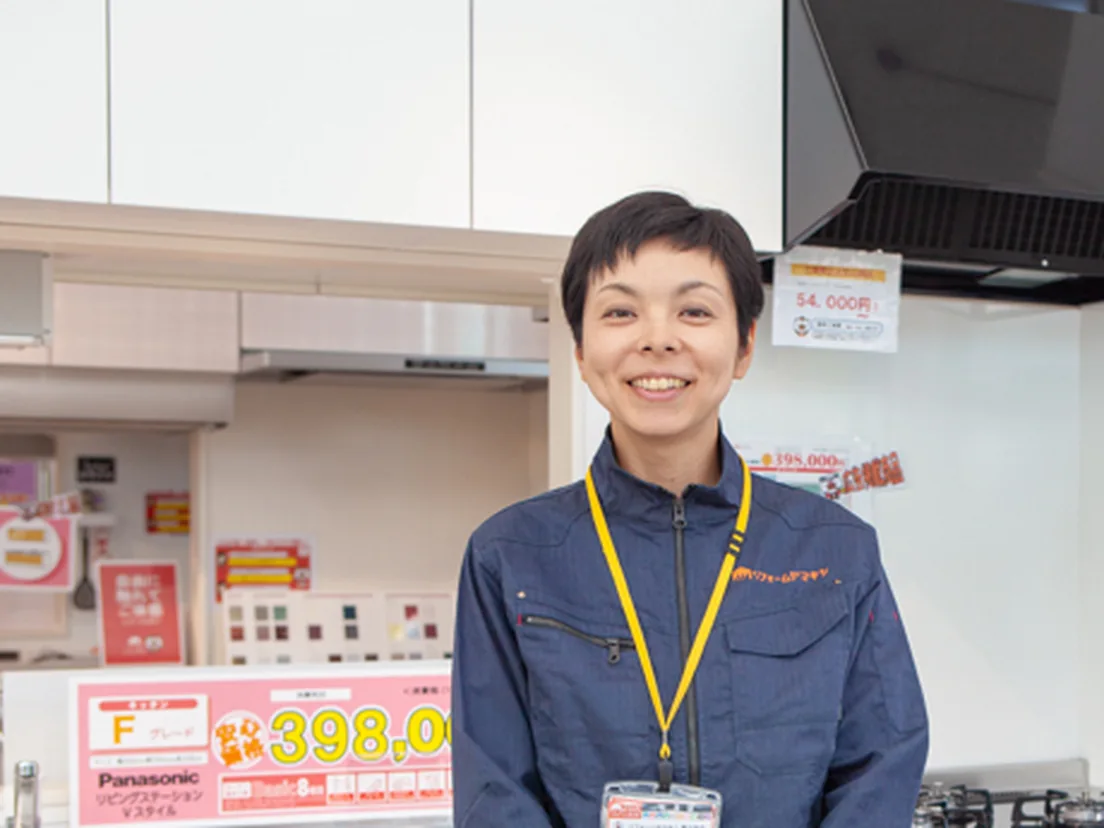
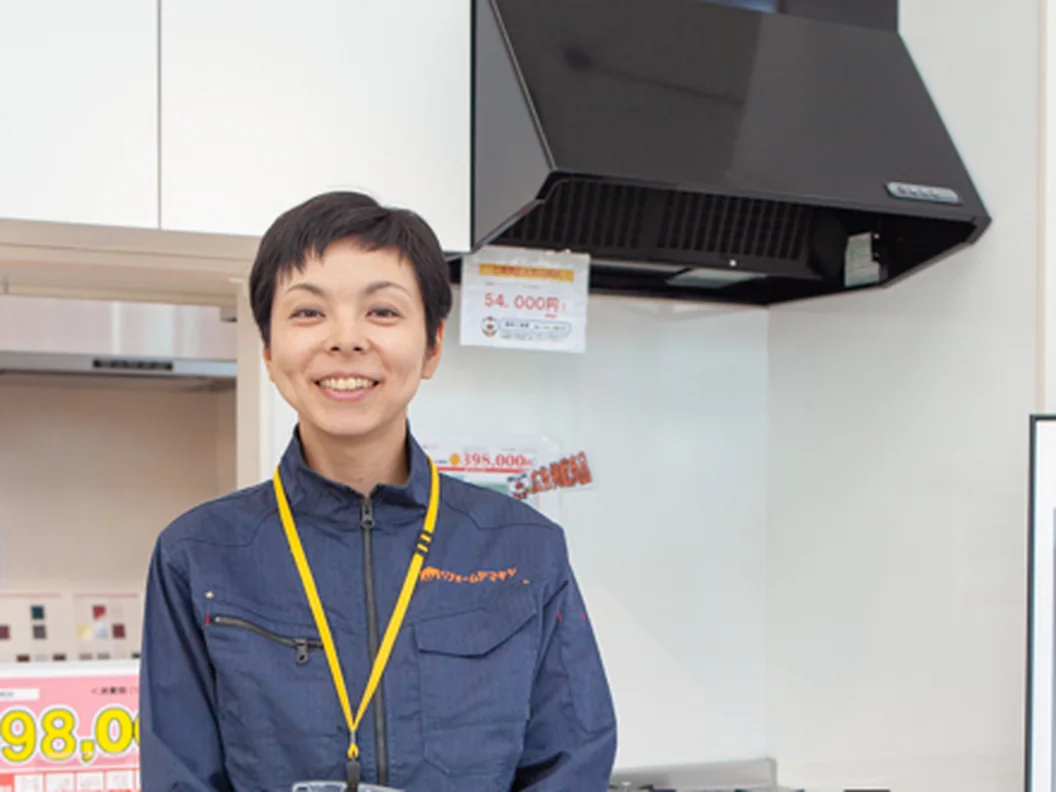
メインビジュアル3枚目の構図を調整（人物を左寄せしてサイト側キャラクターと重ならないように）

diff --git a/index.html b/index.html
@@ -248,7 +248,7 @@
         <div class="p-heroslider__item">
           <picture>
             <source srcset="assets/img/common/hero-03.webp" type="image/webp">
-            <img src="assets/img/common/hero-03.jpg" width="1104" height="828"
+            <img src="assets/img/common/hero-03.jpg" width="1056" height="792"
                  alt="リフォームヤマキシ金沢野々市店のショールームとスタッフ"
                  loading="lazy" decoding="async">
           </picture>
